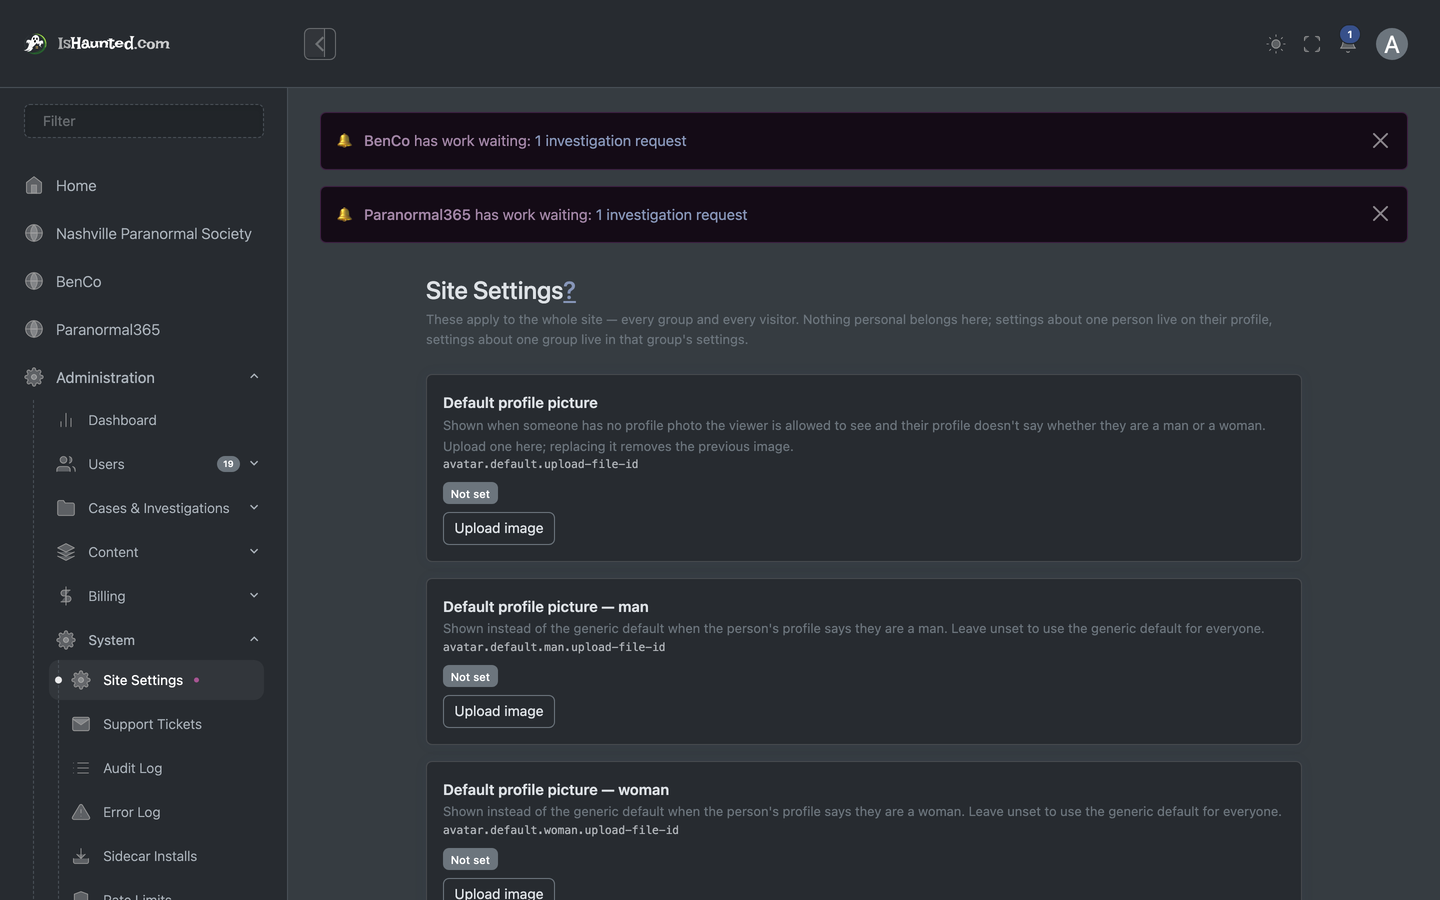
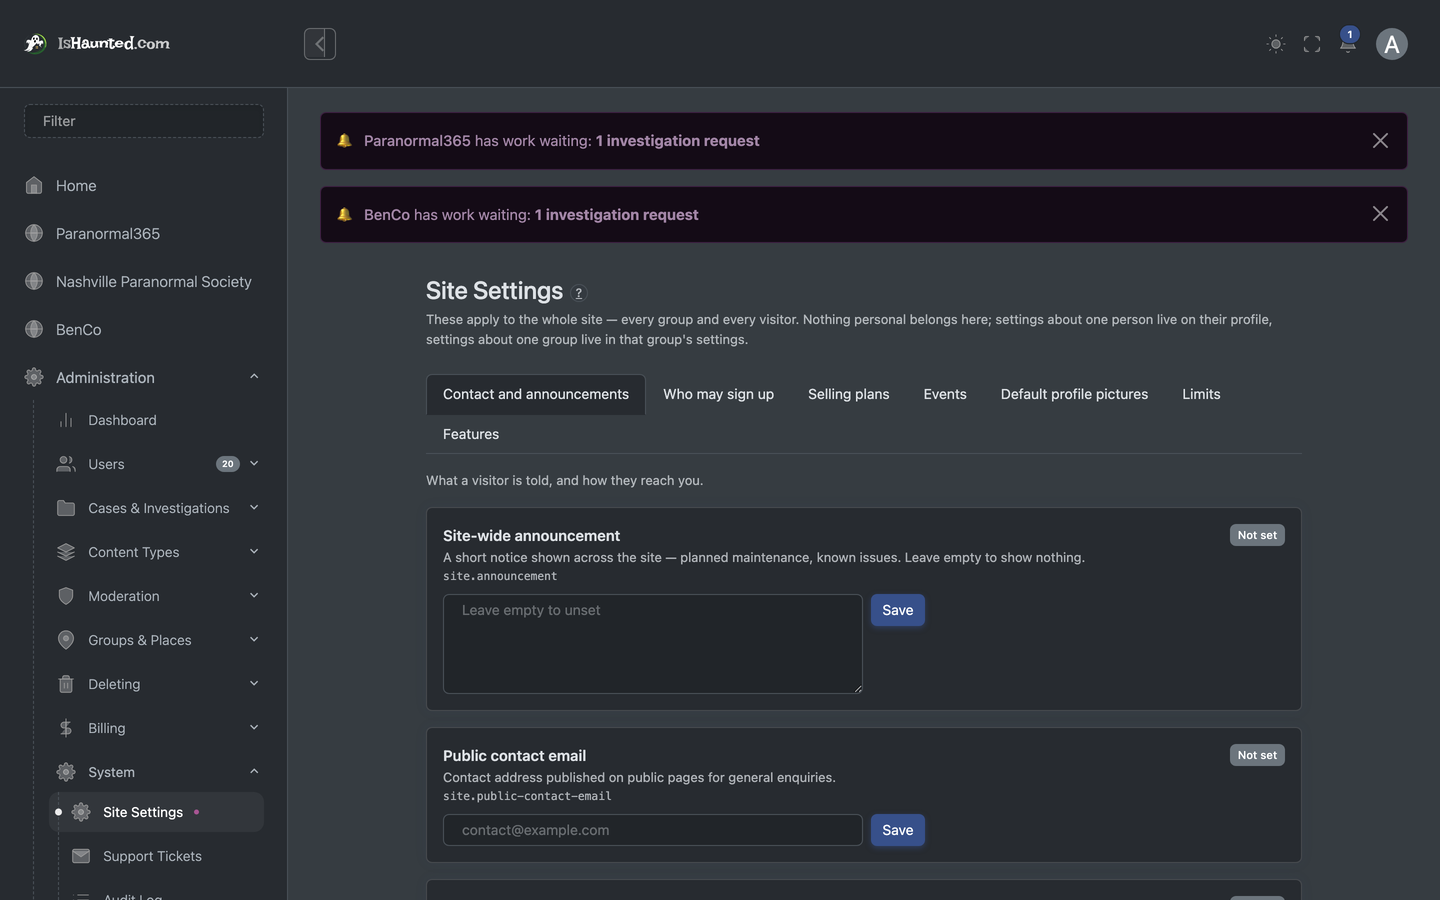
Help for the storage ceiling, and the screenshots that prove it
The setting's own description still described the old rule — "in their own
field sessions" — which C1 made untrue this morning when the cap grew to
cover every personal upload. Rewritten to say what the guard actually does,
including what never counts (a group's own work, a recording published to a
public location, the superseded version of a replaced file) and the 90% and
95% warnings.

The help document gains the matching section and a new screenshot. The other
six site-administration captures are re-shot because the new Limits row moves
everything below it.

The new screenshot was referenced as /help/media/..., the wwwroot-served form,
while every other image in this administrator document uses help-media:. That
is not only a PDF-build failure: administrator media is embedded in the
assembly and inlined as data URIs precisely so it is not served from wwwroot,
so the image would have been broken on the live help page too.
HelpMediaReferenceTests catches exactly this — three of its four cases fail on
the wrong prefix — and simply had not been run.

diff --git a/docs/ishaunted-documentation.html b/docs/ishaunted-documentation.html
@@ -124,7 +124,7 @@ h1, h2, h3 { break-after: avoid-page; }
     <div class="cover-meta">
       <div>Product Documentation</div>
       <div>18 documents &middot; 6 sections</div>
-      <div>21 September 2026</div>
+      <div>22 September 2026</div>
     </div>
   </div>
   <div class="status">
@@ -664,6 +664,32 @@ paid lane, and a home's page offers none of these buttons.</p>
 <p>You can also simply <strong>post</strong> about a public place, with no space and no visit: see
 <a href="the-feed#posting-about-a-place">Posting about a place</a>. And what you record on the phone can be
 published to a place's archive the same way — see <a href="the-mobile-apps">the mobile apps</a>.</p>
+<h2>How much you can store</h2>
+<p>A free account has a <strong>storage allowance</strong>, and everything you keep to yourself counts towards it:
+recordings, photographs, video projects, equipment pictures, anything you add to a public
+location, anything you post. The figure is the same for everybody and a site administrator can
+change it.</p>
+<p><strong>Contributing gives the space back.</strong> A recording published to a public location's archive stops
+counting against you, because it has earned its place — it is what makes the archive worth reading
+to somebody who has never been there. A recording nobody but you will ever see does not. So the
+allowance is a nudge rather than a bill: contribute and your room comes back.</p>
+<p><strong>What does not count.</strong> Work that belongs to a group — a case's files, a group's equipment — is
+the group's, not yours, and never counts against you. Nor does the old version of a file you have
+replaced: cutting a long recording down to a short one lowers what you are using, as you would
+expect. And if you belong to a group on a paid plan, none of this applies to you at all.</p>
+<p><strong>What does count, and is worth knowing:</strong> a clip you cut from a recording is a second file. If
+you keep the original as well — which most people want to — you are keeping both, and both count.
+Deleting either gives its space straight back.</p>
+<h3>Being told before you run out</h3>
+<p>You do not have to watch a number. When you have used about 90% of your allowance the site sends
+you a message saying so, with nothing to do yet. If you get to 95% it sends a stronger one,
+because the next upload may be refused.</p>
+<p>Each of those arrives <strong>once</strong>. If you clear some space and drop back under 90%, the site forgets
+it warned you — so if you fill up again later, you will be told again rather than meeting the
+limit in silence.</p>
+<p>Three things make room, and the messages say so: publish a recording to a public location, delete
+files you no longer need, or join a group on a paid plan, which lifts the limit entirely. Nothing
+is ever deleted to make room — the limit is on what you can add, not on what you already have.</p>
 <h2>A group's own pages</h2>
 <p>Every group has a page of its own at <code>/o/their-name</code>, and everything they publish hangs off it: a
 strip of pills across the top takes you to their <strong>Cases</strong>, their <strong>Events</strong>, any pages they have
@@ -4157,6 +4183,11 @@ has decided its people stay unidentified to clients.</p>
 <h2>Members and roles</h2>
 <p><img alt="The group's members list" src="../Ben.Web.Services/Help/Media/organization-administration/members.png" />
 <em>Members and their roles. Roles decide what each person may do inside the group.</em></p>
+<p><strong>People who have left do not appear here.</strong> When somebody closes their account, or has it closed
+for them, they drop off this list straight away — there is nothing useful left to do with the row,
+since a closed account cannot be given a role, invited, or asked to do anything. Everything they
+recorded for the group stays exactly where it was, signed "A former member", so the group's record
+of its own work is unaffected.</p>
 <table>
 <thead>
 <tr>
@@ -6044,6 +6075,17 @@ different trade, and this switch is about walks.</p>
 record, in tabs: their profile fields, addresses, emails, phones, links, notes, memberships,
 files and site roles. Each tab edits directly, and every change is written to the audit log
 under your name.</p>
+<h3>Former members</h3>
+<p>Closing an account does not remove it. The person's name, contact details and credentials go, but
+the row stays so that the cases, evidence and messages they wrote for a group remain where that
+group left them, signed "A former member". Deleting the row outright would take a group's record
+of its own work with it.</p>
+<p>That means every account ever closed is still in this list. <strong>Include former members</strong>, above the
+grid, decides whether you see them; it is off when you arrive, and a count beside it says how many
+are being hidden — so a search that finds nobody tells you to tick the box rather than reading as
+though that person was never here.</p>
+<p>A group's own member list never shows them at all. Nobody there can give a closed account a role,
+invite it or ask it to do anything, so it would only be clutter on a screen people work from.</p>
 <h3>Last sign-in and how many</h3>
 <p>Two columns on the list answer who is actually using the site. <strong>Last sign-in</strong> is the most
 recent one; <strong>Sign-ins</strong> is how many there have been. Both sort, so a click on either heading
@@ -6462,6 +6504,66 @@ It is on unless it has been turned off.</p>
 </ul>
 <p>Nothing already bought changes: plans and paid seats carry on and renew as before. Event credits
 have their own switch, <strong>Sell event credits</strong>.</p>
+<h2>The storage ceiling</h2>
+<p><strong>Administration → Site Settings → Limits → Free account storage (MB)</strong> is what a free account may
+keep to itself. Leaving the box empty is safe: there is a built-in default of 2048 MB.</p>
+<p>Raising it takes effect immediately and needs no deploy, which is the point — when there is more
+disk, this is the one number to change.</p>
+<p><img alt="The storage ceiling" src="../Ben.Web.Services/Help/Media/site-administration/storage-ceiling.png" />
+<em>Free account storage, in the Limits group. Empty means the built-in default.</em></p>
+<p><strong>What counts against it</strong> is everything stored under the person: recordings, photographs, video
+projects, equipment pictures, place evidence, feed media. What does not: a group's own work, the
+superseded version of a replaced file, and anything published to a public location's archive,
+which earns its space. Members of a group on a paid plan are not capped at all.</p>
+<p><strong>People are warned before they meet it.</strong> A message goes out at 90% used and a stronger one at
+95%, each sent once. Somebody who frees space and drops back under 90% is warned again the next
+time they fill up, rather than being told once in their life and then meeting the limit in
+silence. Lowering the ceiling can therefore put accounts straight into the warned band on the next
+pass, which is the intended behaviour but worth expecting.</p>
+<h2>Places</h2>
+<p><strong>Administration → Places</strong> lists every location on the site: the homes groups work in and the
+public locations anybody signed in can contribute to. Search by name, street, town or state, and
+narrow to one kind or the other.</p>
+<p>Each row carries the three counts that decide what you can do with it — cases, visits and pieces
+of evidence. A row with nothing against it anywhere is one that can be removed; a row with
+anything against it is one to merge or make private instead.</p>
+<p><strong>Add a place</strong> opens the same form everybody else uses, so a location you add is matched against
+what already exists rather than becoming a second record of the same building.</p>
+<h3>Correcting a place</h3>
+<p>The pencil on a row opens the place for editing: what it is called, its street, town, state and
+ZIP, and where it sits on the map.</p>
+<p>This is the only door there is. The page where somebody adds a public location tells them "there
+is already a place at that address, and it is recorded as somebody's home — if that is wrong, ask
+a site administrator to correct it", and this is where that correction happens.</p>
+<p><strong>An address that already belongs to another record is refused.</strong> Two records of one building
+split its evidence between them, which is the thing the whole archive is built to avoid, so an
+edit that would land on an occupied address stops and names the record already there. Use
+<strong>Duplicate Places</strong> to fold the two together instead.</p>
+<p><strong>Coordinates.</strong> Type them and they are kept exactly as given — somebody correcting a record by
+hand usually knows better than an automatic lookup. Leave them empty and change the address, and
+the old position is thrown away and the new address looked up instead: a pin left over from the
+previous address is worse than no pin, because nothing on the map says it is wrong.</p>
+<p><strong>Look up the address again</strong> re-runs that lookup without changing anything else, which is what a
+row reading "not on the map" needs. When the lookup still cannot place it, the page says why
+rather than showing an empty map — a misspelt street and an address that simply is not in the
+mapping service look identical otherwise.</p>
+<h3>Taking a place off the public map</h3>
+<p>This is the repair for the mistake that matters most: somewhere somebody lives, entered as a
+public location. A public location has a page strangers can read and add photographs to, so a home
+listed that way is a public evidence page for an address a family lives at.</p>
+<p><strong>Make it a private residence</strong> takes the page away and stops anybody adding to it. Nothing
+recorded there is deleted — the group working the case keeps every file, every session and every
+note. It is the safe answer, and it is almost always the right one.</p>
+<p>Going the other way, <strong>Make it a public location</strong>, is refused for anything carrying a street
+number. If a genuine landmark has a street address on it, clear the address first. The refusal is
+deliberate: promoting a row on a list of fifty is exactly how somebody's home would end up public.</p>
+<h3>Deleting a place</h3>
+<p>Only possible while nothing at all points at the record — no case, no visit, no evidence, no
+event, no room, no venue profile, no contact, no claim. If anything does, the refusal names it
+("3 cases and 6 pieces of evidence still point at it") so you know what to move first.</p>
+<p>For a place that is a duplicate of another, use <strong>Duplicate Places</strong> instead: merging moves
+everything onto the record you keep and then removes the empty one. For a place with real history
+that should not be public, make it private rather than trying to empty it.</p>
 <h2>Merging two groups</h2>
 <p><strong>Administration → Groups → Merge Groups</strong> takes two organizations and ends with one. Choose
 the <strong>base</strong> — the group that survives, keeping its URL and settings — and the group to merge

diff --git a/Ben.Data.WebApi/Services/SiteSettingsService.cs b/Ben.Data.WebApi/Services/SiteSettingsService.cs
@@ -256,7 +256,7 @@ public static class SiteSettingKeys
             "How many audio edits, clips, EVP scans or mix exports one caller may ask for each minute. Each of these decodes a whole recording while the request waits, so a handful at once is what a busy person does and a hundred is a script. Low by design; raise it if somebody working through a long recording reports being turned away. Leave empty for the default."),
 
         (FreeAccountStorageMegabytes, "Free account storage (MB)",
-            "How much somebody with no paid group may store in their own field sessions. Members of a group on a paid plan are not counted against this. Leave empty for the built-in default of 2048 MB."),
+            "How much somebody with no paid group may keep to themselves — recordings, photographs, video projects, equipment pictures, anything added to a public location. A group's own work never counts against a person, nor does a recording published to a public location, nor the superseded version of a replaced file. Members of a group on a paid plan are not capped at all. People are told at 90% and again at 95%. Leave empty for the built-in default of 2048 MB."),
         (EventRetentionDays, "How long an event's files are kept (days)",
             "Days after an event's last date before its files, gallery pictures and the links to photos in its room are removed. The organizer is written to 30 and 7 days before. Guests' own photos stay in their libraries. Leave empty for the built-in default of 90 days."),
         (EventStorageMegabytes, "Storage for one event (MB)",

diff --git a/Ben.Web.Playwright/Capture/HelpMediaCapture.cs b/Ben.Web.Playwright/Capture/HelpMediaCapture.cs
@@ -2223,6 +2223,19 @@ public sealed class HelpMediaCapture : BenTestBase
         await GoAsync("/admin/site-settings");
         await ShootAsync("site-administration", "site-settings.png", gated: true);
 
+        // The storage ceiling (C1, 2026-09-22). The one number to change when there is more disk,
+        // so the shot is that setting's own card rather than the whole page — where it is one box
+        // of forty and the picture says nothing.
+        //
+        // Reached by ?setting=, because only the chosen tab is RENDERED: without it the page opens
+        // on the first section and this box is not below the fold, it is absent. That deep link
+        // exists precisely because two other links had already been caught promising a switch on a
+        // page that did not contain it.
+        await GoAsync("/admin/site-settings?setting=storage.free-account-megabytes");
+        await ShootAsync("site-administration", "storage-ceiling.png", gated: true,
+                         selector: ".card:has(.font-monospace:text-is('storage.free-account-megabytes'))",
+                         proves: "Free account storage");
+
         await GoAsync("/admin/support-tickets");
         await ShootAsync("site-administration", "support-tickets.png", gated: true);
 

diff --git a/Ben.Web.Services/Help/Content/site-administration.md b/Ben.Web.Services/Help/Content/site-administration.md
@@ -677,6 +677,9 @@ keep to itself. Leaving the box empty is safe: there is a built-in default of 20
 Raising it takes effect immediately and needs no deploy, which is the point — when there is more
 disk, this is the one number to change.
 
+![The storage ceiling](help-media:site-administration/storage-ceiling.png)
+*Free account storage, in the Limits group. Empty means the built-in default.*
+
 **What counts against it** is everything stored under the person: recordings, photographs, video
 projects, equipment pictures, place evidence, feed media. What does not: a group's own work, the
 superseded version of a replaced file, and anything published to a public location's archive,
